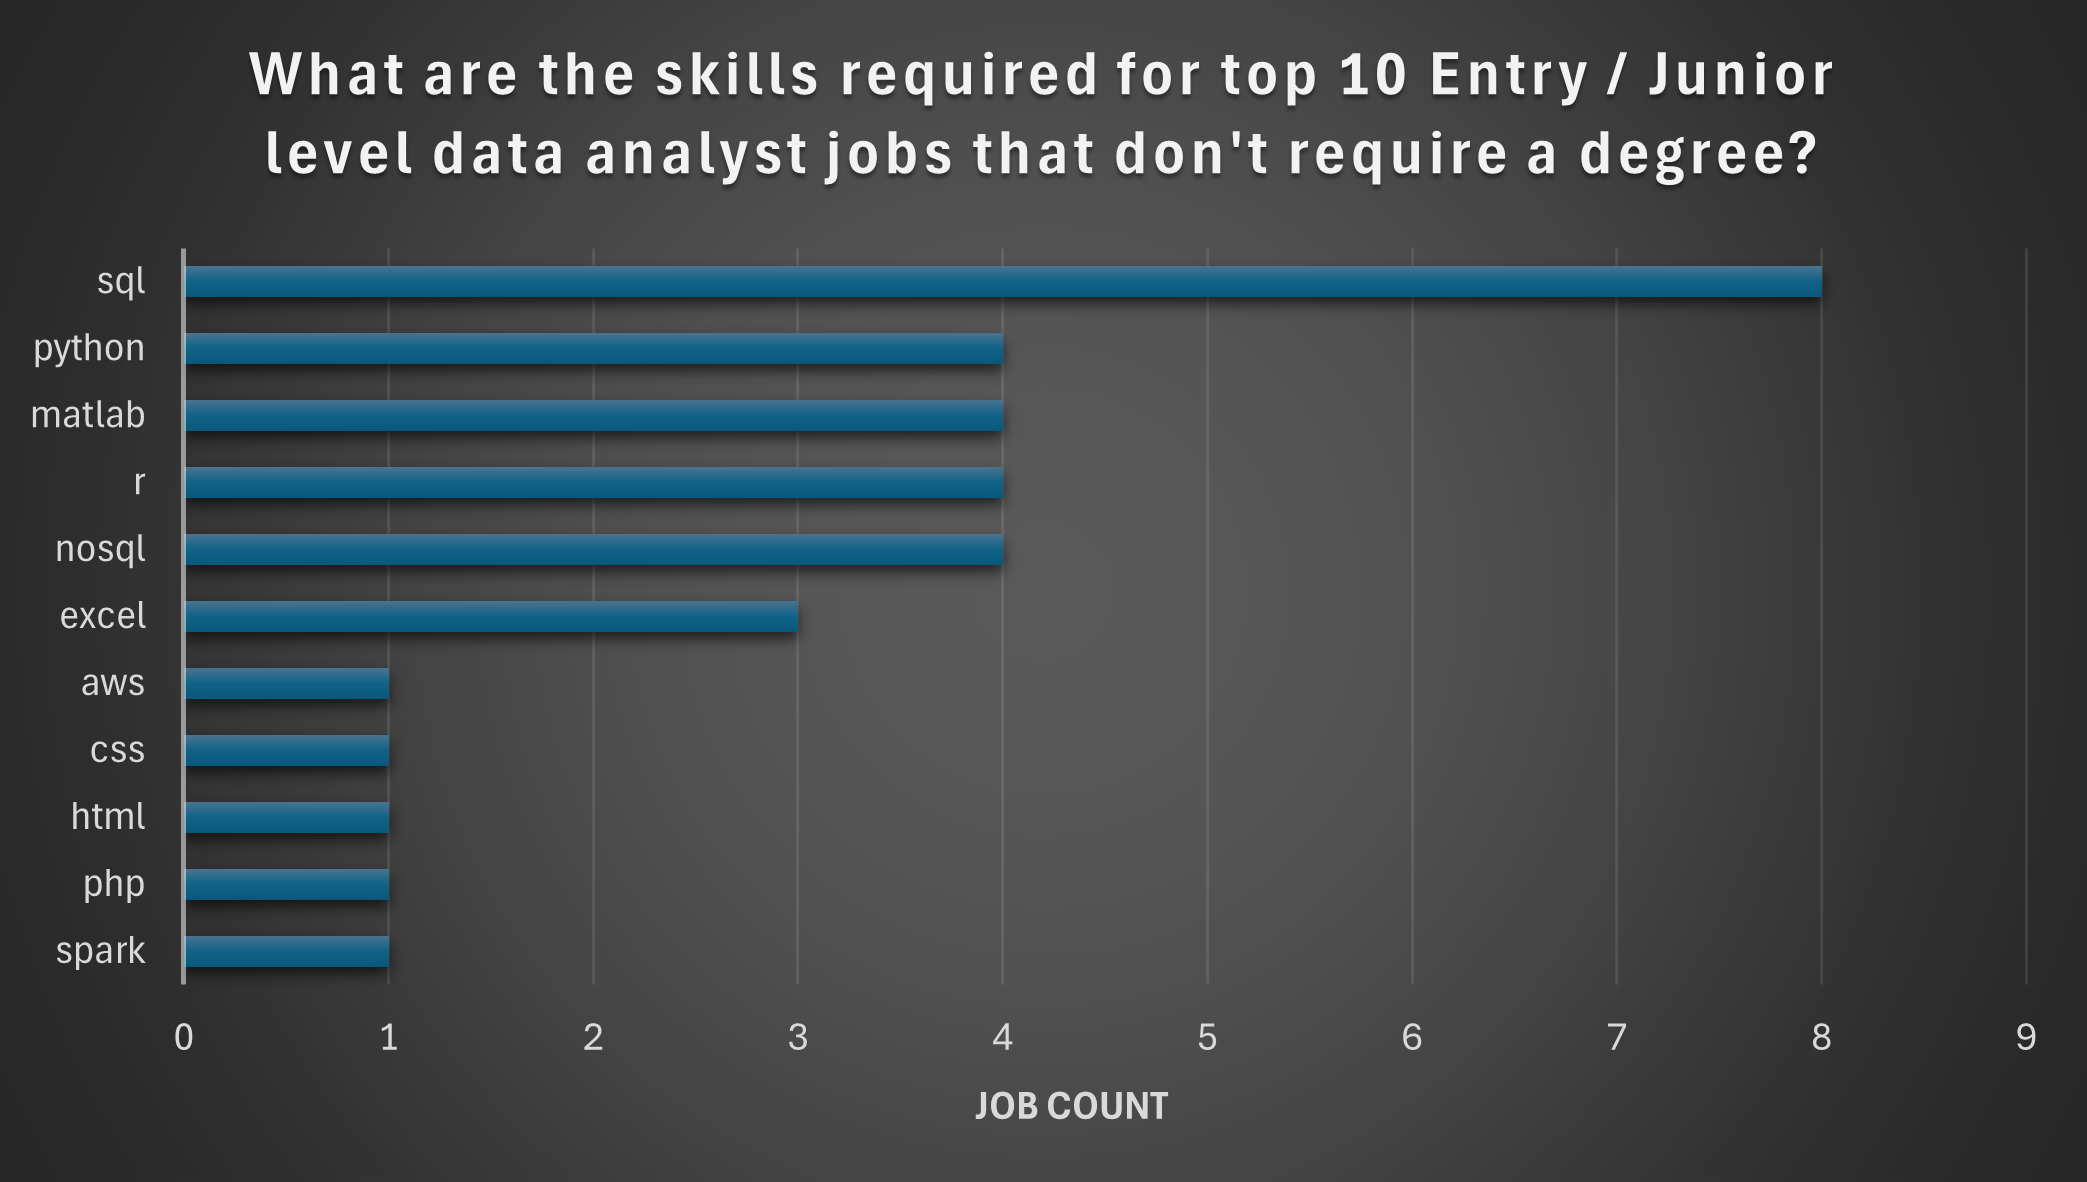
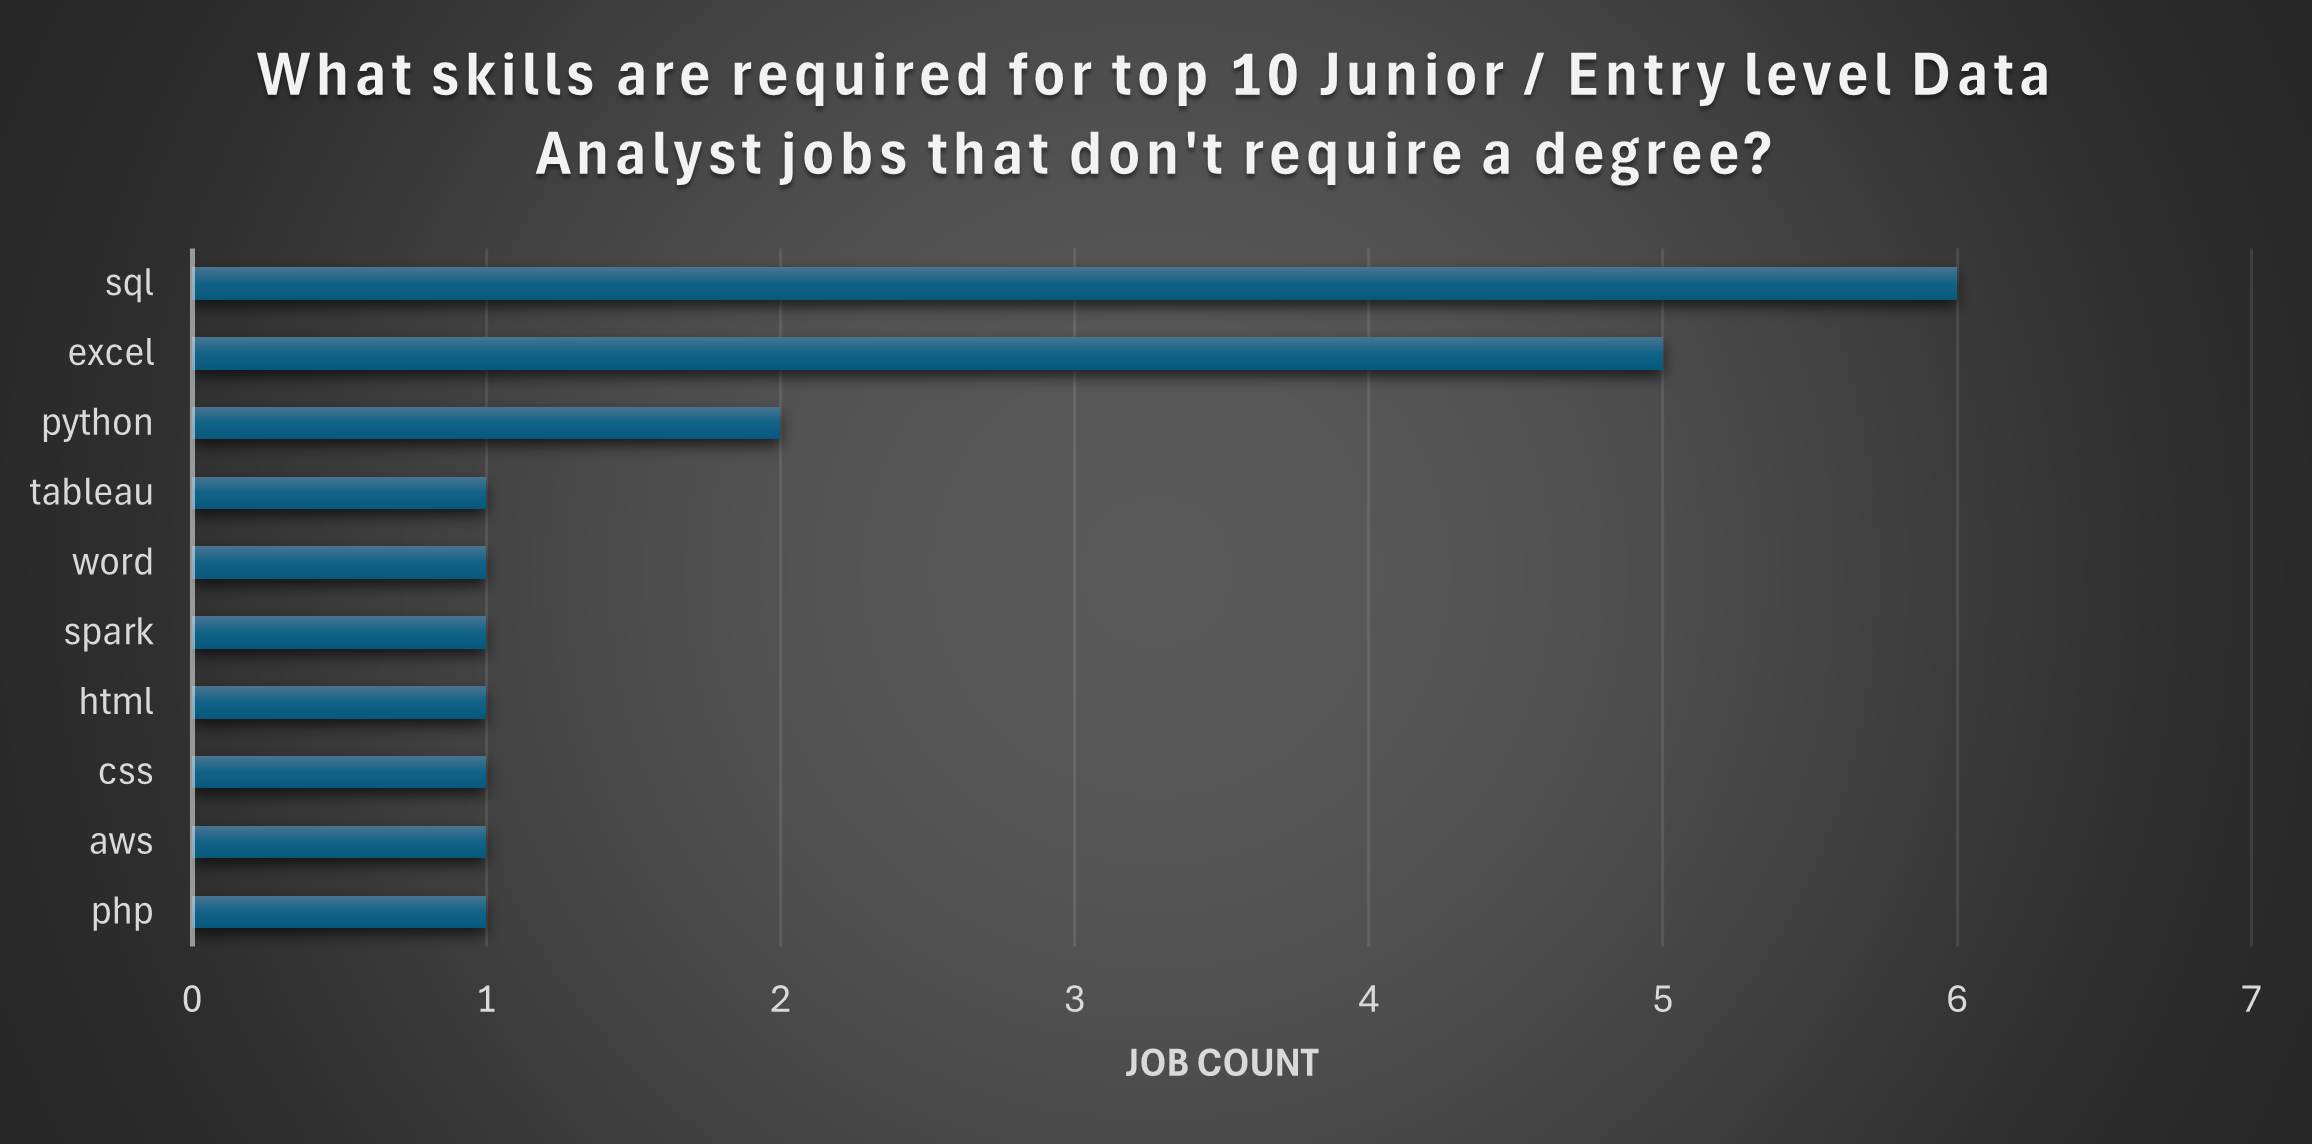
update the result sets of all queries to include data up to 30th June, 2025 and updated the readme and the images accordingly as well.

diff --git a/README.md b/README.md
@@ -30,12 +30,12 @@ With this project, we will be answering these 5 questions:
 <br>
 
 ##  1. What are the top paying jobs in Data Analytics?
-To answer this question, I looked at Data Analyst jobs that:
+To answer this question, we will look at Data Analyst jobs that:
 - Were **Junior / Entry** level,
 - **Did not** require a degree, and
 - Had a **salary value** mentioned in the posting
 
-The above mentioned filters will be used throughtout this project, as I am focusing specifically on those jobs where the barrier to entry is the lowest.
+The above mentioned filters will be used throughtout this project, as we are focusing specifically on those jobs where the barrier to entry is the lowest.
 
 ```sql
 SELECT
@@ -67,10 +67,10 @@ LIMIT 10;
 ```
 ![Alt text](/Images/Query_1.png)
 What I gathered from the result set:
-- **US dominates in entry level jobs:** &nbsp;With the exeption of one job, all the top 10 jobs are US based.
-- **On-site presence is mandatory:** &nbsp; None of the filtered jobs has a **work from home** option.
-- **Full-time commitment is required:** &nbsp; All jobs require you to be present in the office, full-time.
-- **Unusually high salary in Austria:** This needs to be further investigated as to why the job in Vienna, Austria is paying higher than all other jobs.
+- **Half of the jobs are in the US:** &nbsp;50 % of the jobs are from US based companies, while the rest are from around the world.
+- **On-site jobs dominate:** &nbsp; 8 out of the 10 jobs require the person to be in-office, while the remaining 2 are remote.
+- **Full-time commitment is required:** &nbsp; All jobs require you to be present in the office, full-time. One job's schedule is not prorperly laid out, mentioning "Full-time, part-time, and Contractor" which needs to be mentioned properly in the job posting.
+- **Wide salary range:** Jobs range in salary from 85k - 163k dollars, which shows that job location plays an important role in the pay you can expect for a certain role.
 
 <br>
 
@@ -121,14 +121,15 @@ The result:
 
 ![Alt text](/Images/Query_2.png)
 - **SQL** is the top skill, appearing in 8 jobs.
-- **NoSQL, Matlab, Python and R** are also popular, each appearing in 5 jobs. 
-- **Excel** is not as popular as SQL for top 10 jobs, appearing in only 3 jobs.
-- Data visualization tools, such as **Tableau, Power BI** are not essential for top 10 jobs.
-- **Mystery solved:** The job in Vienna, Austria listed AWS and Spark as essential skills. AWS comes under **cloud skills**, whereas Spark comes under **Data Processing / ETL skills**, both of which offer much **higher pay** than pure data analyst jobs.
+ **Excel** is the next most popular skill, appearing in 5 jobs.
+- **Python** completes the top 3, appearing in only 2 jobs. 
+-
+- Out of the 2 most popular Data visualization tools (Tableau and Power BI), only **Tableau** is mentioned, appearing in only 1 job.
+
 <br>
 
 ## 3. What are the most in-demand skills for Data Analytic roles?
-To answer this, I needed to see how many times a skill appears in job postings. I also only focused on the top 5 skills so that job seekers know exactly what to tackle first.
+To answer this, we need to see how many times a skill appears in job postings. We also will only be focusing on the top 5 skills so that job seekers know exactly what to tackle first.
 
 ```sql
 SELECT
@@ -160,20 +161,19 @@ LIMIT 5;
 The result:
 | Skill     | Job Count |
 |-----------|-----------|
-| Excel     | 1084      |
-| SQL       | 1051      |
-| Python    | 631       |
-| Power BI  | 515       |
-| Tableau   | 378       |
-
+| Excel     | 2227      |
+| SQL       | 2096      |
+| Python    | 1412      |
+| Power BI  | 1084      |
+| Tableau   | 822       |
 <br>
 
 - **Excel** is still very much relevant for entry level jobs as it tops the list
 - **SQL** is the bread and butter of data analysts, so it's no surprise that entry level jobs demand it.
-- **Data visualization tools** like Tableau and Power BI
-are also in high demnand.
 - **Python** also makes it to the top 5 as it can be used 
 for Exploratory Data Analysis and one can further upskill and add **Machine Learning** as one gets proficient in python.
+- **Data visualization tools** like Tableau and Power BI
+are also in high demand.
 
 <br>
 
@@ -212,43 +212,40 @@ LIMIT 25;
 <br>
 
 The result:
-| Skill         | Average Yearly Salary (USD) |
-|---------------|-----------------------------|
-| AWS           | 163,782                     |
-| Spark         | 163,782                     |
-| HTML          | 95,000                      |
-| PHP           | 95,000                      |
-| CSS           | 95,000                      |
-| NoSQL         | 73,333                      |
-| MATLAB        | 73,333                      |
-| SQL           | 71,370                      |
-| Excel         | 70,143                      |
-| R             | 65,290                      |
-| Python        | 62,637                      |
-| VBA           | 60,000                      |
-| Windows       | 57,500                      |
-| Linux         | 57,500                      |
-| Alteryx       | 56,700                      |
-| Pandas        | 56,700                      |
-| Scikit-learn  | 56,700                      |
-| Looker        | 55,257                      |
-| Power BI      | 55,200                      |
-| Tableau       | 53,554                      |
-| Go            | 51,500                      |
-| Dplyr         | 50,400                      |
-| Jupyter       | 50,400                      |
-
+| Skill       | Average Yearly Salary (USD) |
+|-------------|-----------------------------|
+| Spark       | 163,782                     |
+| AWS         | 101,261                     |
+| HTML        | 95,000                      |
+| CSS         | 95,000                      |
+| PHP         | 95,000                      |
+| Snowflake   | 77,500                      |
+| MATLAB      | 73,333                      |
+| NoSQL       | 73,333                      |
+| BigQuery    | 72,500                      |
+| MySQL       | 70,000                      |
+| Redshift    | 70,000                      |
+| Bash        | 70,000                      |
+| Kubernetes  | 70,000                      |
+| Unify       | 70,000                      |
+| PostgreSQL  | 70,000                      |
+| Kafka       | 70,000                      |
+| Airflow     | 70,000                      |
+| Azure       | 68,750                      |
+| SQL         | 68,618                      |
+| Excel       | 68,504                      |
+| Spring      | 68,000                      |
+| Hadoop      | 66,250                      |
+| Word        | 65,175                      |
+| Python      | 64,528                      |
+| R           | 64,508                      |
 
 <br>
 These results show that:
 
-- Jobs requiring **Cloud skills** (e.g AWS) and **Data processing skills** (Spark) pay substantially more than other jobs.
-- **Front-end programming languages** (HTML, CSS) are paid more than
-core data analytical skills (SQL, Pyton etc.) which is odd, since 
-these are not the core data analytics skills.
-- **SQL and Excel** are positined pretty close together, which
-shows how relevant Excel still is for Data Analytics, especially
-when it comes to entry level jobs.
+- **Shift in job requirements:** Although SQL and Excel still make it to the top 25, there is a visible shift from traditional data analytical skills (Excel, SQL, Visualization tools) to more end-to-end skills, as several of the skills mentioned (Kubernetes, Spark, Hadoop, Kafka, Airflow) are more geared towards data engineering, with Spark paying much more than others.
+- **Cloud skills are a must**: General cloud skills (AWS, Azure) as well as specialized cloud data warehouse skills (Snowflake, BigQuery, Redshift) are highly paid.
+- **Microsoft SQL Server did not make the list**: PostgreSQL and mySQL are equally paid, though.
 
 <br>
 
@@ -338,47 +335,67 @@ This will bring out 2 different results, one where the values are sorted first b
 <br>
 
 When sorting by demand_count first, this is the result:
-| Skill     | Demand Count | Average Yearly Salary (USD) |
-|-----------|--------------|------------------------------|
-| SQL       | 19           | 71,370                       |
-| Python    | 12           | 62,637                       |
-| R         | 10           | 65,290                       |
-| Excel     | 7            | 70,143                       |
-| MATLAB    | 6            | 73,333                       |
-| NoSQL     | 6            | 73,333                       |
-| Tableau   | 4            | 53,554                       |
-| Looker    | 2            | 55,257                       |
-| Power BI  | 2            | 55,200                       |
-
+| Skill       | Demand Count | Average Yearly Salary (USD) |
+|-------------|--------------|------------------------------|
+| SQL         | 40           | 68,618                       |
+| Python      | 28           | 64,528                       |
+| Excel       | 18           | 68,504                       |
+| R           | 13           | 64,508                       |
+| Tableau     | 13           | 59,738                       |
+| Power BI    | 7            | 59,443                       |
+| MATLAB      | 6            | 73,333                       |
+| NoSQL       | 6            | 73,333                       |
+| Word        | 4            | 65,175                       |
+| Looker      | 4            | 53,879                       |
+| AWS         | 3            | 101,261                      |
+| SQL Server  | 3            | 56,458                       |
+| VBA         | 3            | 50,858                       |
+| PowerPoint  | 3            | 49,400                       |
+| PostgreSQL  | 2            | 70,000                       |
+| Azure       | 2            | 68,750                       |
+| Spring      | 2            | 68,000                       |
+| Hadoop      | 2            | 66,250                       |
+| Linux       | 2            | 63,750                       |
+| Pandas      | 2            | 58,350                       |
+| Alteryx     | 2            | 49,950                       |
 <br>
 
 When sorting by average_yearly_salary first, the result comes:
-| Skill     | Demand Count | Average Yearly Salary (USD) |
-|-----------|--------------|------------------------------|
-| NoSQL     | 6            | 73,333                       |
-| MATLAB    | 6            | 73,333                       |
-| SQL       | 19           | 71,370                       |
-| Excel     | 7            | 70,143                       |
-| R         | 10           | 65,290                       |
-| Python    | 12           | 62,637                       |
-| Looker    | 2            | 55,257                       |
-| Power BI  | 2            | 55,200                       |
-| Tableau   | 4            | 53,554                       |
-
+| Skill       | Demand Count | Average Yearly Salary (USD) |
+|-------------|--------------|------------------------------|
+| AWS         | 3            | 101,261                      |
+| MATLAB      | 6            | 73,333                       |
+| NoSQL       | 6            | 73,333                       |
+| PostgreSQL  | 2            | 70,000                       |
+| Azure       | 2            | 68,750                       |
+| SQL         | 40           | 68,618                       |
+| Excel       | 18           | 68,504                       |
+| Spring      | 2            | 68,000                       |
+| Hadoop      | 2            | 66,250                       |
+| Word        | 4            | 65,175                       |
+| Python      | 28           | 64,528                       |
+| R           | 13           | 64,508                       |
+| Linux       | 2            | 63,750                       |
+| SAS         | 2            | 60,000                       |
+| Tableau     | 13           | 59,738                       |
+| Power BI    | 7            | 59,443                       |
+| Pandas      | 2            | 58,350                       |
+| SQL Server  | 3            | 56,458                       |
+| Looker      | 4            | 53,879                       |
+| VBA         | 3            | 50,858                       |
+| Alteryx     | 2            | 49,950                       |
+| PowerPoint  | 3            | 49,400                       |
 
 <br>
 
 From both these result sets, we gather:
-- **SQL** is the most in-demand skill for Entry level roles.
-It also ranks in the top 3 most paid skills.
-- **NoSQL** is the highest paid skill for entry level
-jobs, but it is not in much demand.
-- **Excel** is still very much relevant
-as it comes in the top 5 skills, with resepct to
-both the demand and the compensation.
-- **Visualization tools** (Looker, Tableau, Power BI)
-consistently rank at the bottom of the result in both
-aspects.
+- **SQL** is the only skill that is both high demand and highly paid, as it is the most in-demand skill for Entry level roles, and also ranks in the top 5 in terms of pay.
+- **Programming languages:** *MATLAB* is the second highest paid skill, but is limited to certain niche roles, such as legacy systems. Both *Python* and *R* are  in high demand, with average pay.
+- **Excel is still very much relevant** as it is highly in demand, and it is also paid better than both *Python* and *R*.
+- **Cloud skills, such as AWS and Azure** are the highly paid., niche role skills.
+- **Database management systems:** *PostgreSQL* is paid much better than *SQL Server*, both are in equal demand, and *MySQL* did not make the list.
+ 
+- **Visualization tools**: *Tableau* is more in-demand than *Power BI*, and both are paid similarly.
 
 <br><br>
 
@@ -396,13 +413,11 @@ I also fully grasped the analytical thought process, of how to write queries tha
 # Conclusion
 
 ### Key Insights:
-1. **Top paying Data Analyst jobs:** Most of the jobs are located in the US, are full-time and on-site.
-2. **Skills for top paying jobs:** SQL is the most sought-after skill in these jobs, followed by programming languages like Python, R, Matlab, noSQL, and then Excel. Some niche roles require cloud skills (e.g AWS) and data engineering / ETL skills (Spark) and are highly paid.
-3. **Top in-demand skills:** Excel and SQL are very close to each other and rank above all other skills.
-4. **Top paying skills:** Cloud skills are highly paid. Jobs with additional data engineering skills are also highly paid, representing the need for learning how to execute end-to-end projects, from source to analytics, in these niche roles.
-Core data analytics skills (SQL, Excel, Python etc.) are in the middle of the pack when it comes to salary.
-5. **Most optimal skills:** SQL again emerges as the most 
-essential skill, as it is the most in-demand and also ranks in the top 3 in terms of compensation, whereas noSQL is highly paid in some niche roles. Excel, again, is a very desirable skill, both in terms of demand and salary.
+1. **Top paying Data Analyst jobs:** Both remote and on-site jobs are available, and there is a wide gap in the salaries offered, based on the location, with 50 percent jobs being located in the United States.
+2. **Skills for top paying jobs:** SQL is the most sought-after skill in these jobs, followed by Excel and then Python. Some niche roles require cloud skills (e.g AWS) and data engineering / ETL skills (Spark) and are highly paid.
+3. **Top in-demand skills:** Excel, SQL, Python and visualization tools (Tableau and Power BI) are the top 5 most in-demand skills.
+4. **Top paying skills:** Both general cloud skills and specialized cloud data warehousing skills are highly paid. Jobs with additional data engineering skills are also highly paid, representing the need for learning how to execute end-to-end projects, from data sourcing to ETL to analytics.
+5. **Most optimal skills:** *SQL* again emerges as the most essential skill, as it is the most in-demand and also ranks in the top 5 in terms of compensation.It should be combined with *Excel*, a programming languange like *Python* or *R*, a visualization tool (preferably *Tableau*) and a cloud platform, (preferably *AWS*) . 
 
 ### Closing thoughts:
 In the world of Data Analytics, competition is fierce and if one aspires to enter this field, he / she should know exactly what to learn and how to position themselves so that they stand distinguished among the crowd. Learning high-impact, high paying skills is essential not only to land a job, but also to test whether this field will be a good fit for them or not. Learning a skill is only part of the problem, showcasing it is another thing and that's where projects come from. I, among many others, have done this project to showcase my skills, so that one day, I might get a job, but whether I get the job or not, even if one person lands a role in Data after seeing my work, I would consider this a big achievement on my part. 
